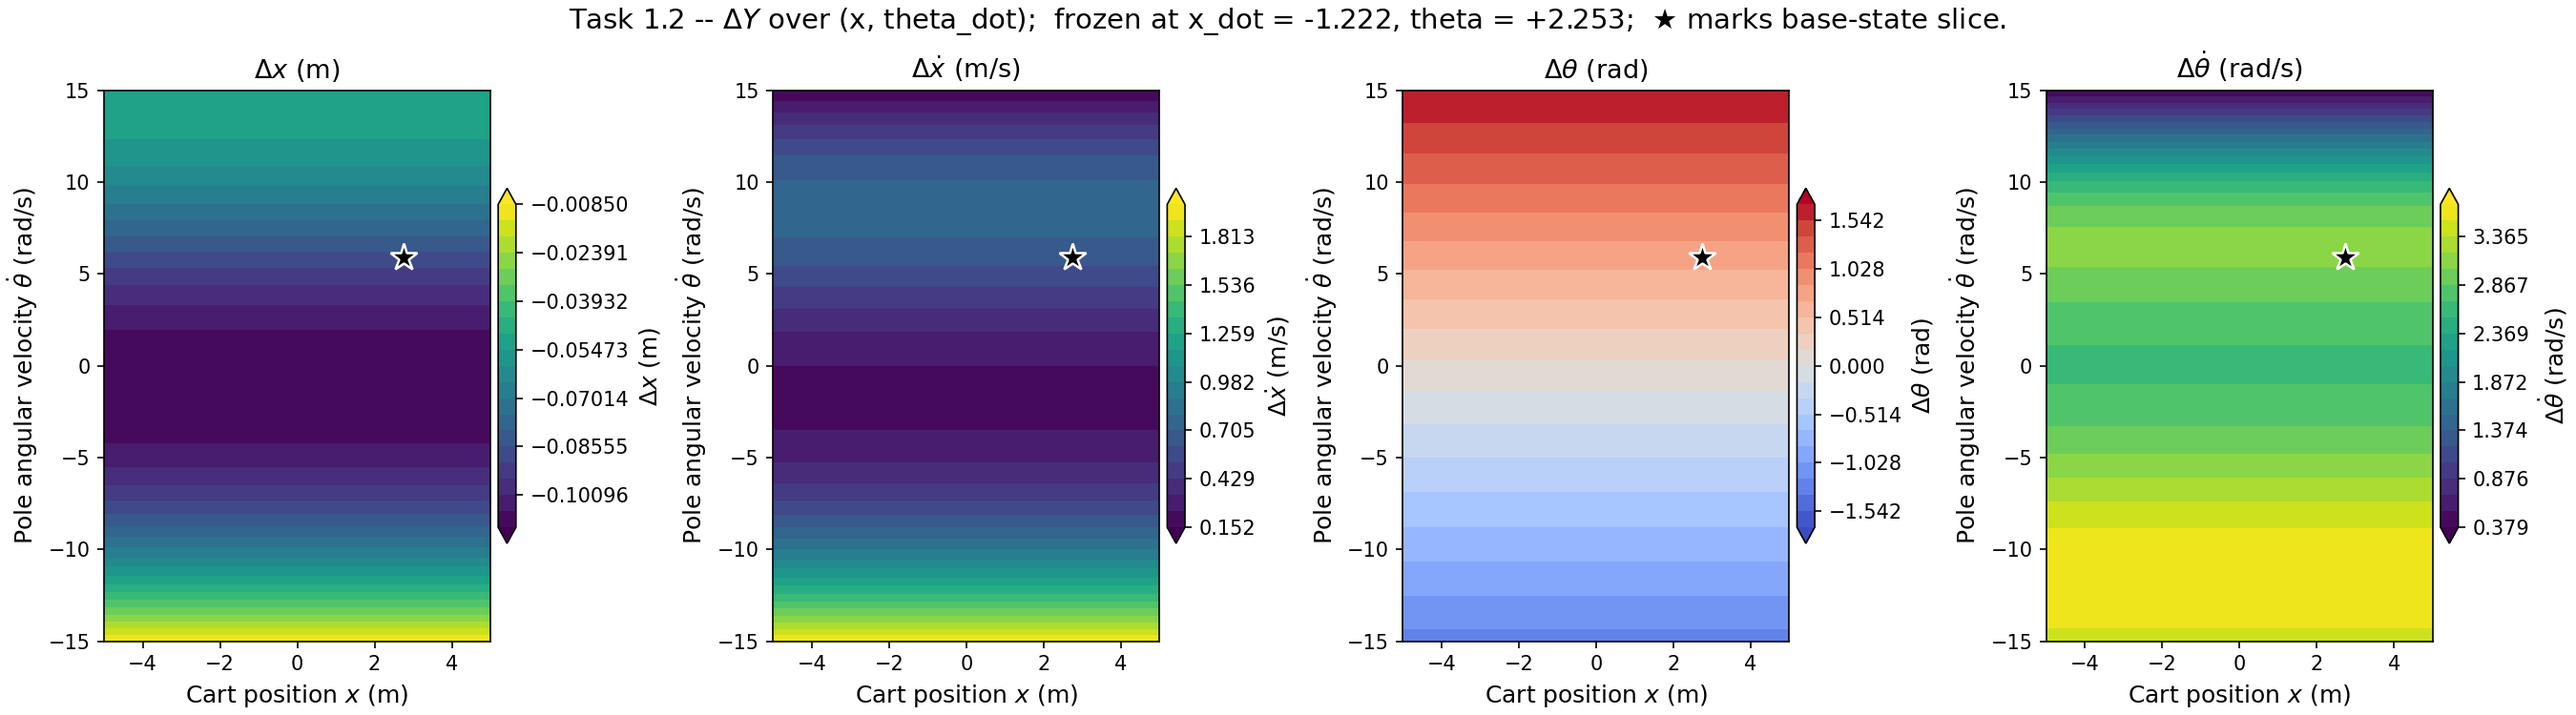
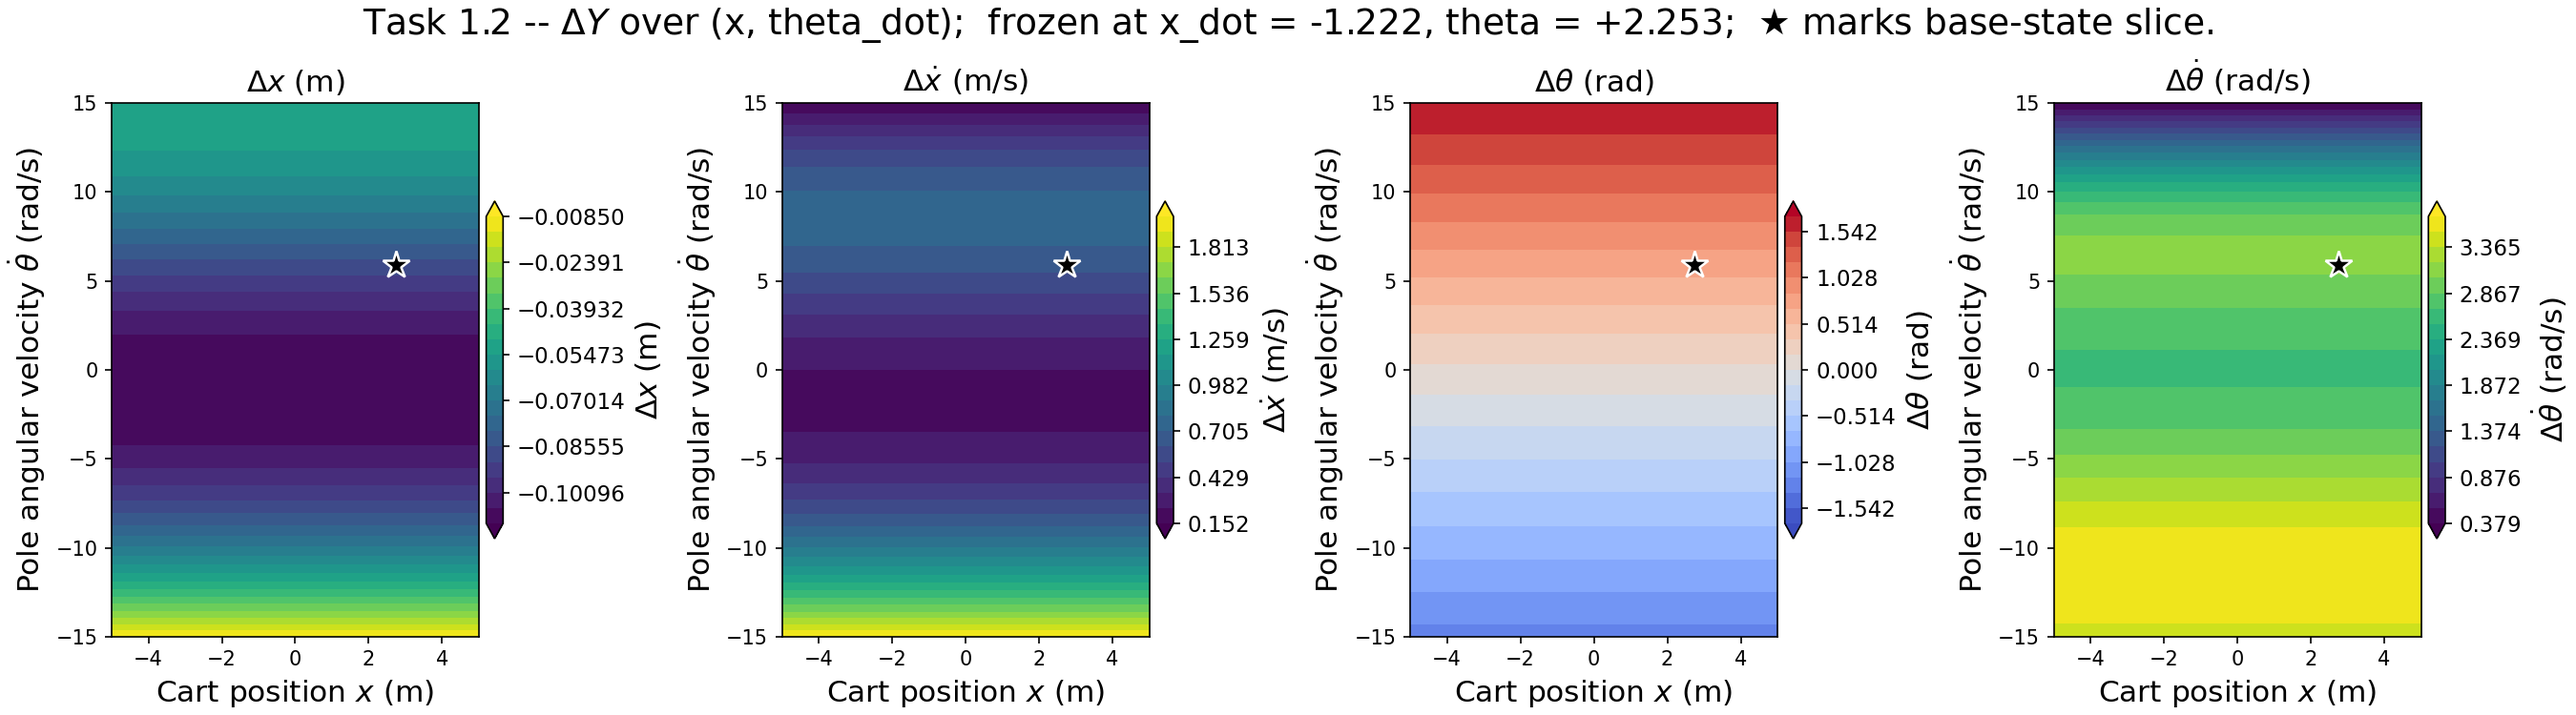
interim report figs changes

diff --git a/week1/task1_2_scans.py b/week1/task1_2_scans.py
@@ -288,11 +288,12 @@ def plot_contour_pair(va, vb, a, b, dY, base_state, fname):
                 markeredgecolor="white", markeredgewidth=1.2,
                 zorder=5)
         cbar = fig.colorbar(tcf, ax=ax, pad=0.02, fraction=0.046)
-        cbar.set_label(OUTPUT_LABELS_DY[col])
+        cbar.set_label(OUTPUT_LABELS_DY[col], fontsize=15)
+        cbar.ax.tick_params(labelsize=11)
 
-        ax.set_xlabel(INPUT_LABELS[va])
-        ax.set_ylabel(INPUT_LABELS[vb])
-        ax.set_title(OUTPUT_LABELS_DY[col])
+        ax.set_xlabel(INPUT_LABELS[va], fontsize=15)
+        ax.set_ylabel(INPUT_LABELS[vb], fontsize=15)
+        ax.set_title(OUTPUT_LABELS_DY[col], fontsize=15)
         ax.grid(False)
 
     # The two frozen variables for this pair -- annotate the suptitle so
@@ -304,7 +305,8 @@ def plot_contour_pair(va, vb, a, b, dY, base_state, fname):
     fig.suptitle(
         rf"Task 1.2 -- $\Delta Y$ over ({INPUT_SHORT[va]}, "
         rf"{INPUT_SHORT[vb]});  frozen at {frozen_desc};  "
-        r"$\bigstar$ marks base-state slice."
+        r"$\bigstar$ marks base-state slice.",
+        fontsize=18,
     )
     fig.savefig(FIG_DIR / fname, dpi=150)
     plt.close(fig)

diff --git a/week1/task1_1_rollouts.py b/week1/task1_1_rollouts.py
@@ -302,7 +302,7 @@ def plot_phase_global(fname,
     ax.set_xlabel(r"$\theta$ (rad, remapped to $[-\pi,\pi]$)")
     ax.set_ylabel(r"$\dot\theta$ (rad/s)")
     ax.grid(alpha=0.3)
-    ax.set_title(title, fontsize=11)
+    ax.set_title(title, fontsize=14)
 
     td_lib_label = ", ".join(f"{v:g}" for v in GLOBAL_LIB_THETADOTS)
     td_rot_label = ", ".join(f"{v:g}" for v in GLOBAL_ROT_THETADOTS)
@@ -317,7 +317,7 @@ def plot_phase_global(fname,
         Line2D([0], [0], color="black", ls=":",  lw=0.9,
                label=r"upright ($\theta=0$)"),
     ]
-    ax.legend(handles=handles, fontsize=8, loc="upper right")
+    ax.legend(handles=handles, fontsize=11, loc="upper right")
     fig.tight_layout()
     fig.savefig(FIG_DIR / fname, dpi=140)
     plt.close(fig)
